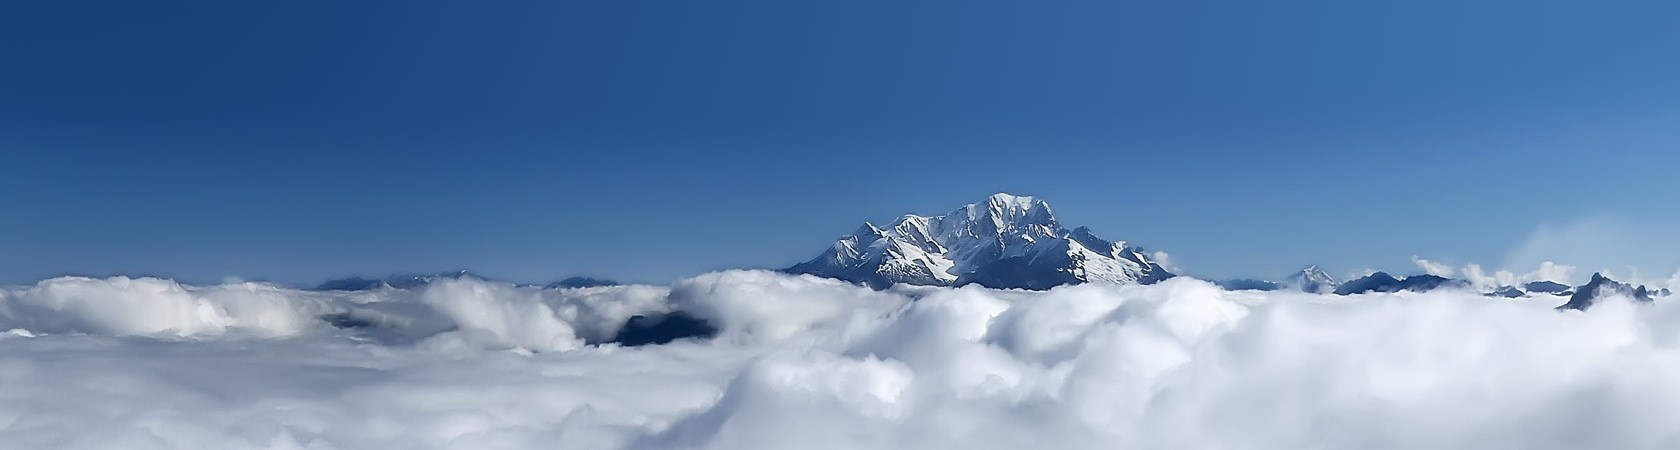
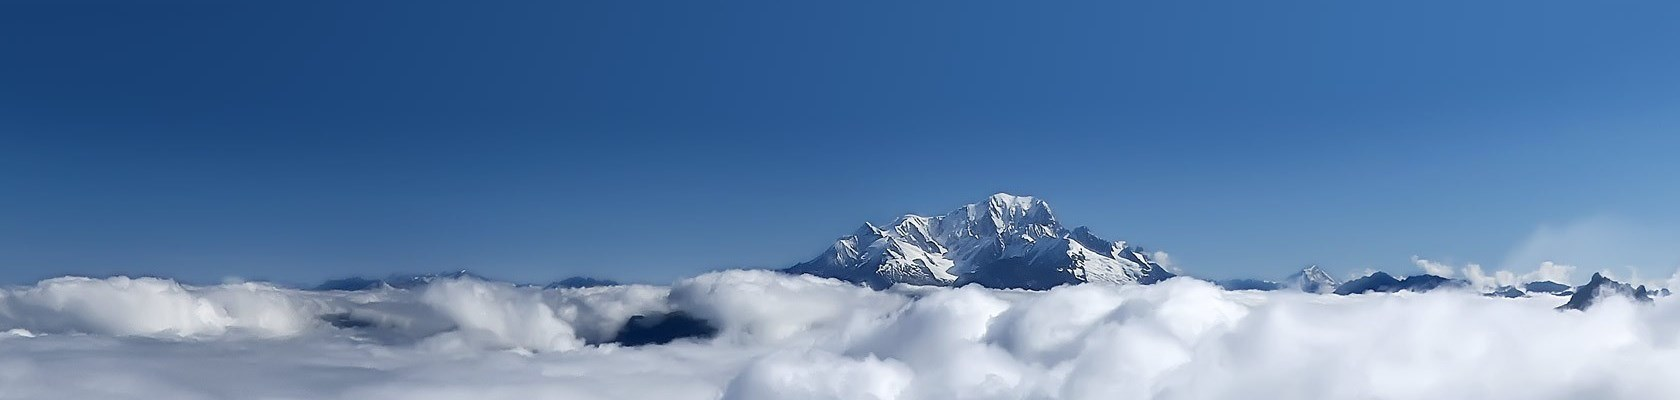
brands

Changed region(s): [[0.0, 0.42, 1.0, 1.0], [0.7429, 0.81, 0.8048, 0.87]]

diff --git a/components/brands/index.js b/components/brands/index.js
@@ -1,0 +1,28 @@
+import { useRouter } from "next/router";
+
+import styles from "../../styles/Brands.module.css";
+
+import tr from "../../locales/tr";
+import en from "../../locales/en";
+
+const Brands = () => {
+  const router = useRouter();
+  const { locale } = router;
+  const t = locale === "en" ? en : tr;
+  return (
+    <div className={styles.container}>
+      <div className={styles.brand}>
+        <img className={styles.brandLogo} src="assets/logo-modiverse.jpg" />
+        <img className={styles.brandName1} src="assets/modiverse.png" />
+        <p className={styles.brandText}>{t.commons.brand2Text}</p>
+      </div>
+      <div className={styles.brand}>
+        <img className={styles.brandLogo} src="assets/logo-iot-ignite.jpg" />
+        <img className={styles.brandName2} src="assets/iot-ignite.png" />
+        <p className={styles.brandText}>{t.commons.brand2Text}</p>
+      </div>
+    </div>
+  );
+};
+
+export default Brands;

diff --git a/styles/Brands.module.css b/styles/Brands.module.css
@@ -1,0 +1,40 @@
+.container {
+  display: flex;
+  justify-content: center;
+  margin-top: 60px;
+  filter: drop-shadow(2px 2px 8px white);
+  opacity: 0.9;
+}
+
+.brand {
+  width: 320px;
+  margin-left: 4px;
+  margin-right: 4px;
+  border-bottom: none;
+  height: 118px;
+  background-color: white;
+  padding: 20px;
+}
+
+.brandLogo {
+  margin: -20px;
+}
+
+.brandName1 {
+  float: right;
+  height: 22px;
+}
+
+.brandName2 {
+  float: right;
+  height: 29px;
+}
+
+.brandText {
+  float: right;
+  width: 180px;
+  text-align: right;
+  margin-top: -50px;
+  line-height: 20px;
+  font-size: 14px;
+}

diff --git a/styles/Slider.module.css b/styles/Slider.module.css
@@ -1,12 +1,12 @@
 .container {
   display: flex;
   justify-content: center;
-  margin-top: 70px;
+  margin-top: 50px;
 }
 
 .sliderText {
   font-weight: 600;
-  font-size: 32px;
+  font-size: 28px;
   line-height: 36px;
   color: white;
 }
@@ -30,7 +30,7 @@
 
 .textBox {
   background-color: rgba(255, 255, 255, 0.8);
-  height: 42px;
+  height: 40px;
   width: fit-content;
   padding: 4px;
   margin-left: 24px;

diff --git a/components/header/index.js b/components/header/index.js
@@ -1,4 +1,5 @@
 import styles from "../../styles/Header.module.css";
+import Brands from "../brands";
 import LanguageChanger from "../languageChanger";
 import Menu from "../menu";
 import Slider from "../slider";
@@ -25,6 +26,7 @@ const Header = () => {
         </div>
       </div>
       <Slider />
+      <Brands />
     </div>
   );
 };

diff --git a/locales/en/index.js b/locales/en/index.js
@@ -20,6 +20,8 @@ export default {
     plus2: "artificial intelligence",
     plus3: "big data",
     plus4: "vertical solutions",
+    brand1Text: "Enterprise Mobility Management as a Service",
+    brand2Text: "Full Stack IoT Platform with Edge Computing",
   },
   page: {
     _404: {

diff --git a/locales/tr/index.js b/locales/tr/index.js
@@ -20,6 +20,8 @@ export default {
     plus2: "yapay zeka",
     plus3: "büyük veri",
     plus4: "dikey çözümler",
+    brand1Text: "Hizmet Olarak Kurumsal Mobilite Yönetimi",
+    brand2Text: "Edge Computing ile Tam Yığın IoT Platformu",
   },
   page: {
     _404: {

diff --git a/styles/Header.module.css b/styles/Header.module.css
@@ -1,6 +1,6 @@
 .container {
   width: 100%;
-  height: 450px;
+  height: 400px;
   background-image: url("/assets/header-background.jpg");
   background-position: center;
   background-repeat: no-repeat;

diff --git a/README.md b/README.md
@@ -1,34 +1,3 @@
-This is a [Next.js](https://nextjs.org/) project bootstrapped with [`create-next-app`](https://github.com/vercel/next.js/tree/canary/packages/create-next-app).
-
-## Getting Started
-
-First, run the development server:
-
-```bash
 npm run dev
-# or
-yarn dev
-```
 
 Open [http://localhost:3000](http://localhost:3000) with your browser to see the result.
-
-You can start editing the page by modifying `pages/index.js`. The page auto-updates as you edit the file.
-
-[API routes](https://nextjs.org/docs/api-routes/introduction) can be accessed on [http://localhost:3000/api/hello](http://localhost:3000/api/hello). This endpoint can be edited in `pages/api/hello.js`.
-
-The `pages/api` directory is mapped to `/api/*`. Files in this directory are treated as [API routes](https://nextjs.org/docs/api-routes/introduction) instead of React pages.
-
-## Learn More
-
-To learn more about Next.js, take a look at the following resources:
-
-- [Next.js Documentation](https://nextjs.org/docs) - learn about Next.js features and API.
-- [Learn Next.js](https://nextjs.org/learn) - an interactive Next.js tutorial.
-
-You can check out [the Next.js GitHub repository](https://github.com/vercel/next.js/) - your feedback and contributions are welcome!
-
-## Deploy on Vercel
-
-The easiest way to deploy your Next.js app is to use the [Vercel Platform](https://vercel.com/new?utm_medium=default-template&filter=next.js&utm_source=create-next-app&utm_campaign=create-next-app-readme) from the creators of Next.js.
-
-Check out our [Next.js deployment documentation](https://nextjs.org/docs/deployment) for more details.
